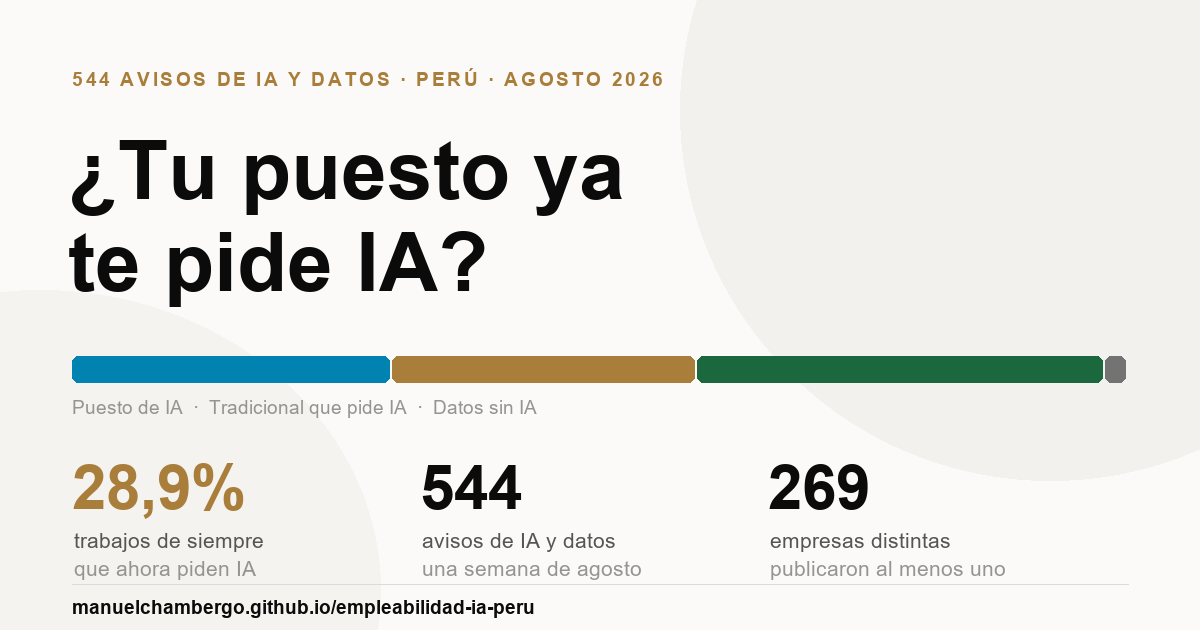
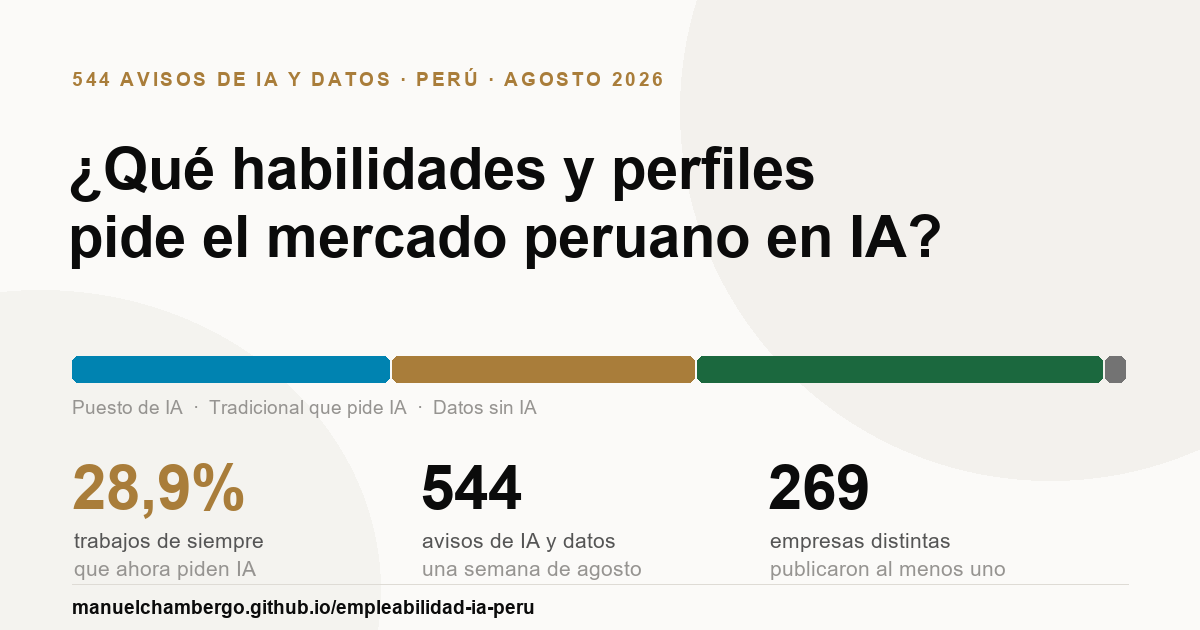
Titular nuevo y marca rehecha
El titular pasa a la pregunta que origino el trabajo, y la bajada cuenta
de donde viene. El sello de la barra cambia las dos letras diminutas por
tres barras con los colores de las series del sitio.

Changed region(s): [[0.0617, 0.2111, 0.8017, 0.4825]]

diff --git a/index.html b/index.html
@@ -3,9 +3,9 @@
 <head>
 <meta charset="utf-8">
 <meta name="viewport" content="width=device-width, initial-scale=1">
-<title>¿Tu puesto ya te pide IA? · 544 avisos de empleo en Perú</title>
+<title>¿Qué habilidades y perfiles pide el mercado peruano en IA?</title>
 <meta name="description" content="Qué pide realmente el mercado laboral peruano cuando pide inteligencia artificial. Análisis de 544 avisos publicados en bolsas de trabajo del Perú, agosto 2026.">
-<meta property="og:title" content="¿Tu puesto ya te pide IA?">
+<meta property="og:title" content="¿Qué habilidades y perfiles está pidiendo el mercado peruano en IA?">
 <meta property="og:description" content="En los avisos peruanos de IA y datos, 3 de cada 10 son puestos de siempre que ahora exigen inteligencia artificial. 544 avisos analizados.">
 <meta property="og:type" content="website">
 <meta property="og:site_name" content="IA en el trabajo · Perú 2026">
@@ -19,7 +19,7 @@
 <meta property="og:image:type" content="image/png">
 <meta property="og:image:alt" content="544 avisos peruanos de IA y datos: el 28,9% son puestos de siempre que ahora piden inteligencia artificial.">
 <meta name="twitter:card" content="summary_large_image">
-<meta name="twitter:title" content="¿Tu puesto ya te pide IA?">
+<meta name="twitter:title" content="¿Qué habilidades y perfiles está pidiendo el mercado peruano en IA?">
 <meta name="twitter:description" content="En los avisos peruanos de IA y datos, 3 de cada 10 son puestos de siempre que ahora exigen inteligencia artificial. 544 avisos analizados.">
 <meta name="twitter:image" content="https://manuelchambergo.github.io/empleabilidad-ia-peru/og.png">
 <link rel="stylesheet" href="assets/style.css">
@@ -30,10 +30,16 @@
 
 <aside class="barra">
   <div class="barra__marca">
-    <span class="barra__sello" aria-hidden="true">IA</span>
+    <span class="barra__sello" aria-hidden="true">
+      <svg viewBox="0 0 24 24" width="20" height="20" fill="none">
+        <rect x="3"  y="13" width="4.2" height="8"  rx="1.4" fill="var(--cyan-tech)"/>
+        <rect x="9.9" y="8" width="4.2" height="13" rx="1.4" fill="var(--champagne)"/>
+        <rect x="16.8" y="4" width="4.2" height="17" rx="1.4" fill="var(--forest)"/>
+      </svg>
+    </span>
     <div>
       <strong>IA en el trabajo</strong>
-      <span>Perú · 2026</span>
+      <span>Mercado laboral peruano</span>
     </div>
   </div>
 
@@ -59,11 +65,13 @@
   <!-- ══ portada ══ -->
   <header class="portada">
     <p class="cejilla">Bolsas de trabajo del Perú · una semana de agosto de 2026</p>
-    <h1><span class="headline-sweep">¿Tu puesto ya<br>te pide</span> <em class="text-gradient">IA</em>?</h1>
+    <h1><span class="headline-sweep">¿Qué habilidades y perfiles<br>está pidiendo el mercado</span>
+      <em class="text-gradient">peruano en IA</em>?</h1>
     <p class="portada__bajada">
-      No hace falta ser ingeniero de <i>machine learning</i> para que la IA
-      aparezca en tu descripción de puesto. Revisamos <strong>544 avisos peruanos
-      de IA y datos</strong> para ver a quién se la piden, y qué exactamente.
+      Es una pregunta que me vengo haciendo desde que trabajo en IA fuera del Perú.
+      Busqué el dato y no lo encontré, así que tomé una muestra de las bolsas de
+      trabajo más conocidas del país —<strong>544 avisos de IA y datos, de 269
+      empresas</strong>— y los revisé uno por uno. Esto es lo que encontré.
     </p>
 
     <div class="kpis">

diff --git a/assets/style.css b/assets/style.css
@@ -191,13 +191,14 @@ a { color: inherit; }
 }
 .barra__marca { display: flex; gap: .65rem; align-items: center; padding: 0 .5rem .95rem; border-bottom: 0.5px solid var(--border); }
 .barra__sello {
-  width: 2.1rem; height: 2.1rem; flex: none; border-radius: var(--radius-sm);
-  background: var(--foreground); color: var(--background);
+  width: 2.3rem; height: 2.3rem; flex: none; border-radius: var(--radius);
+  background: var(--foreground);
   display: grid; place-items: center;
-  font-weight: 700; font-size: .72rem; letter-spacing: -.02em;
+  box-shadow: 0 2px 10px -4px oklch(0.18 0 0 / 0.35);
 }
-.barra__marca strong { display: block; font-family: var(--font-display); font-size: 1rem; font-weight: 600; line-height: 1.1; }
-.barra__marca span { display: block; font-size: .64rem; text-transform: uppercase; letter-spacing: .14em; color: color-mix(in oklab, var(--muted-fg) 85%, transparent); margin-top: .15rem; }
+.barra__sello svg { display: block; }
+.barra__marca strong { display: block; font-family: var(--font-display); font-size: 1.02rem; font-weight: 700; letter-spacing: -.01em; line-height: 1.15; }
+.barra__marca span { display: block; font-size: .68rem; letter-spacing: .01em; color: color-mix(in oklab, var(--muted-fg) 85%, transparent); margin-top: .1rem; }
 
 .barra__nav { display: flex; flex-direction: column; gap: .1rem; flex: 1; overflow-y: auto; }
 .barra__nav a {
@@ -224,8 +225,8 @@ main { margin-left: var(--barra-w); padding: 0 clamp(1.25rem, 3.5vw, 3rem) 5rem;
 .portada { padding: clamp(3rem, 7vw, 5rem) 0 2rem; }
 .portada h1 {
   font-family: var(--font-display);
-  font-size: clamp(2.1rem, 5.4vw, 3.5rem); font-weight: 700;
-  letter-spacing: -.025em; margin: 1rem 0 1.25rem;
+  font-size: clamp(1.75rem, 4vw, 2.9rem); font-weight: 700;
+  letter-spacing: -.025em; margin: 1rem 0 1.25rem; max-width: 20ch;
 }
 .portada h1 em { font-style: italic; }
 .portada__bajada { font-size: clamp(1rem, 1.6vw, 1.1rem); color: var(--muted-fg); max-width: 42rem; margin: 0 0 2.25rem; }
